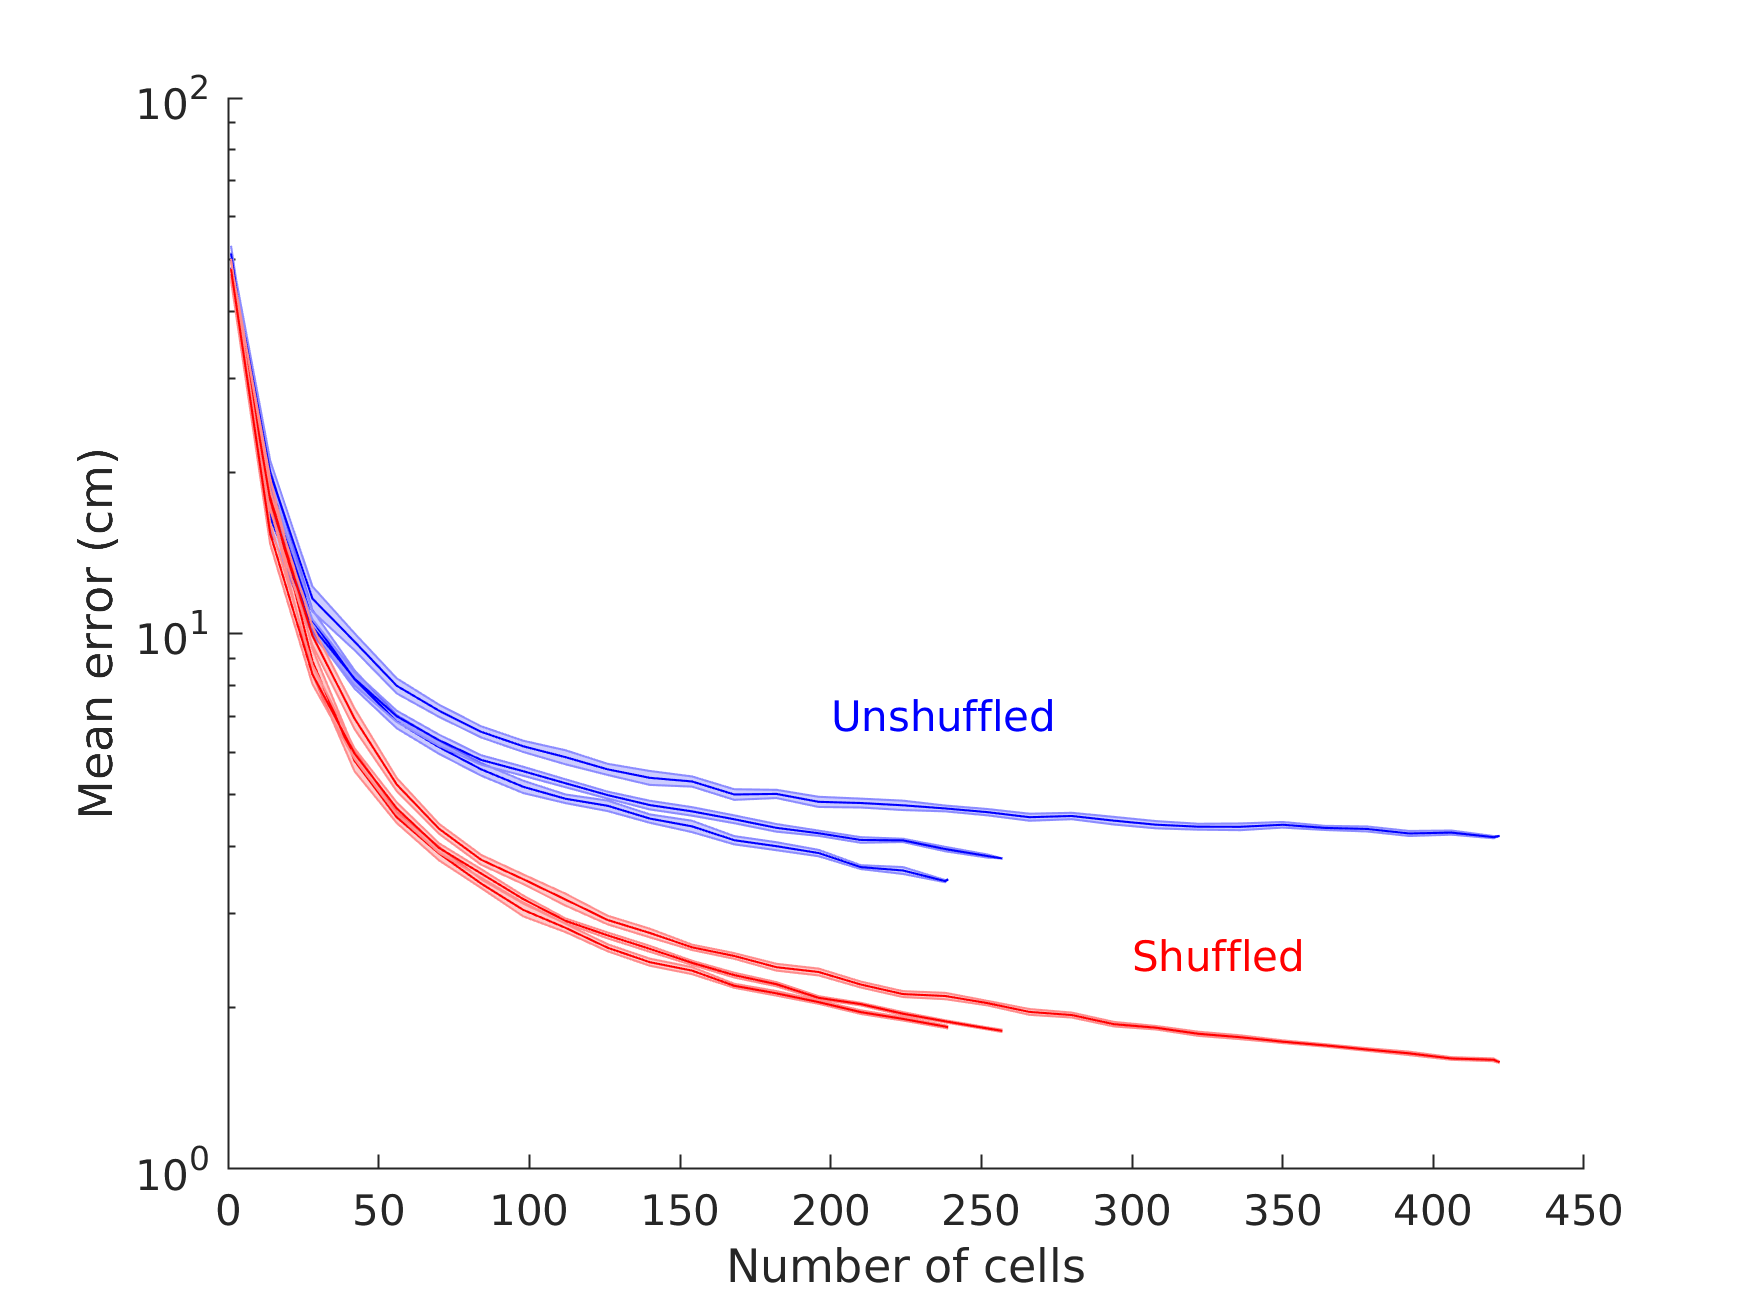
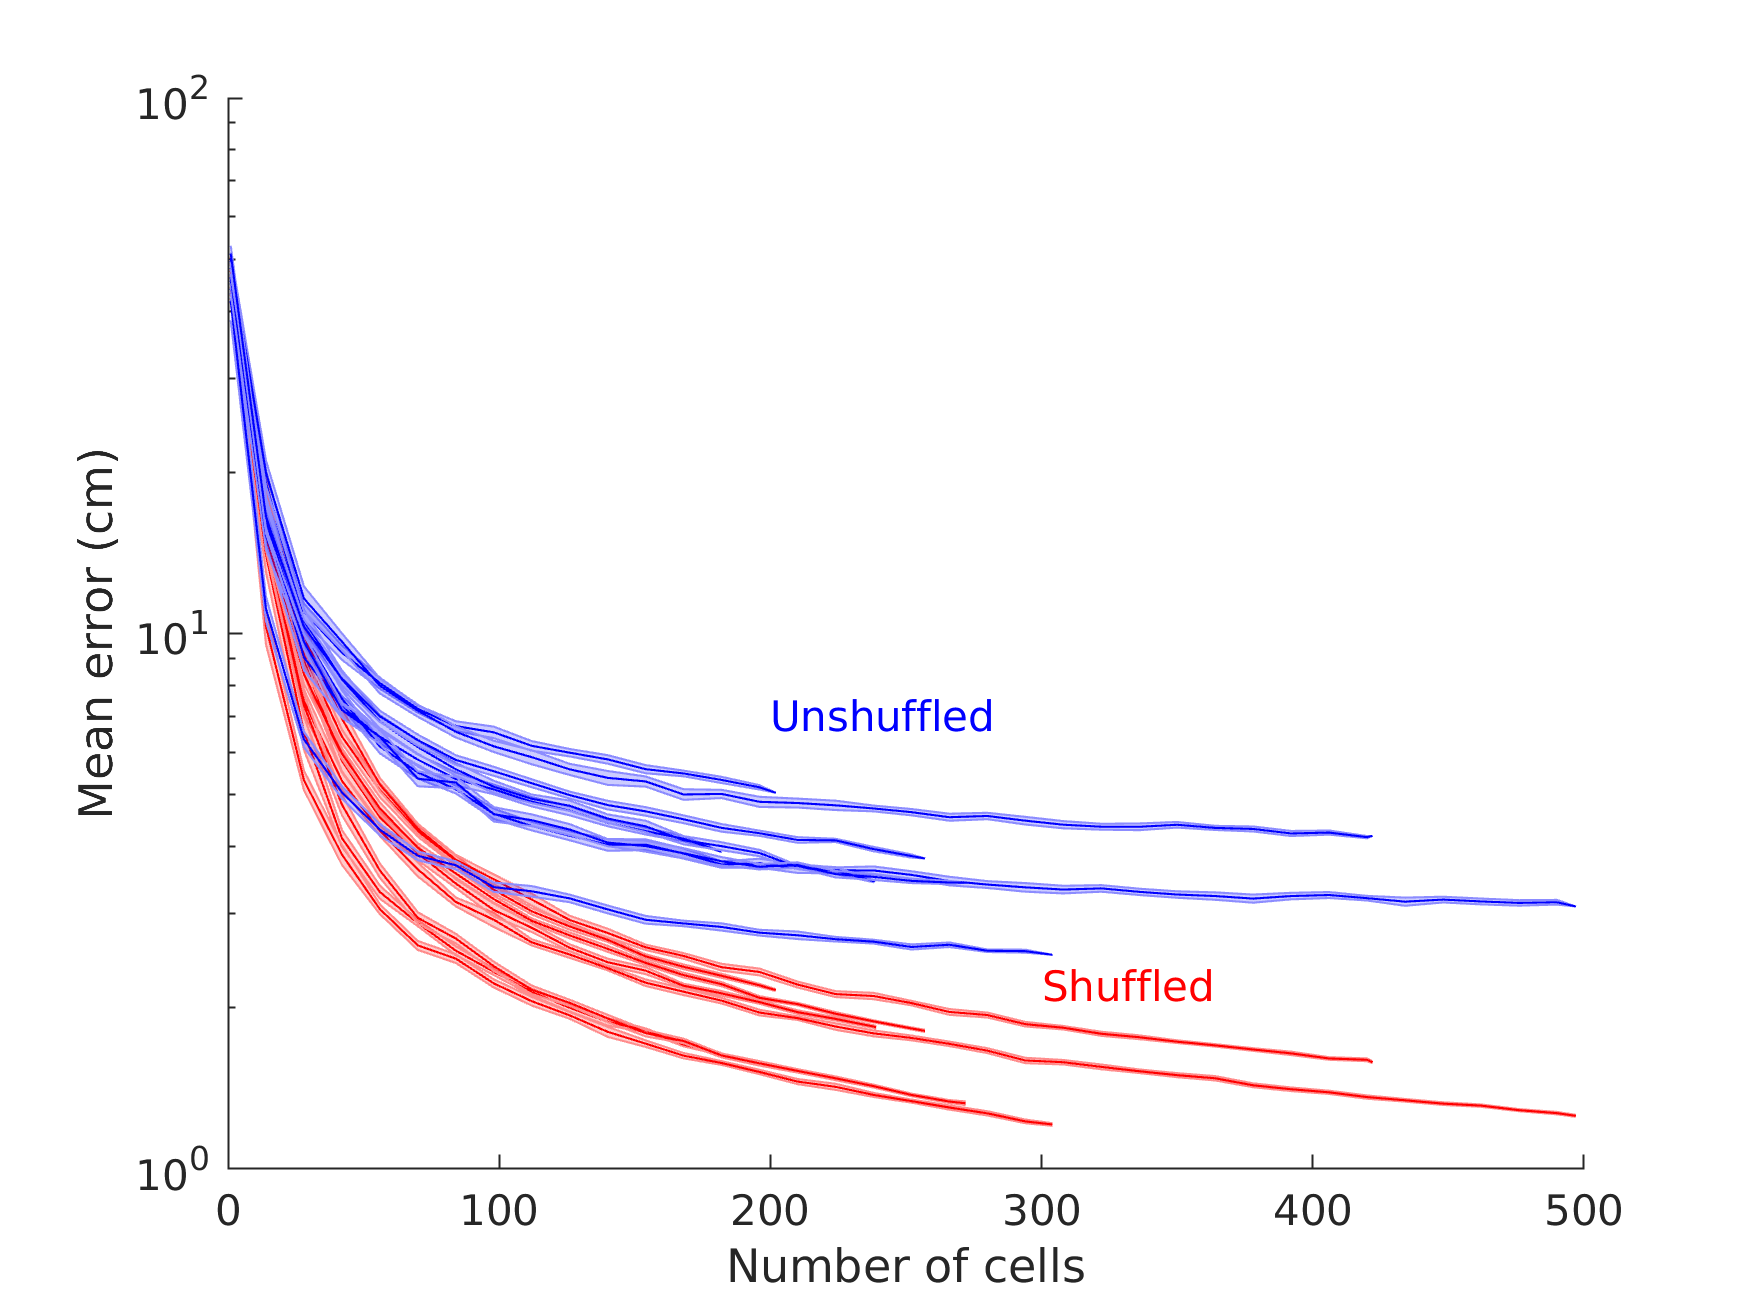
fixed colormap

diff --git a/Analyzer.m b/Analyzer.m
@@ -380,41 +380,157 @@ classdef Analyzer < handle
             ylim([0.5 1]);
         end
         
-        function [fw, bw] = angle_analysis(o)
+        function [bin_X, mean_bin_X, cov_bin_X, fw_princ, bw_princ,...
+                fw_angles, bw_angles, fw_dX, bw_dX, fw_angles_tangent, bw_angles_tangent, varargout] = bin_data(o, is_shuffled, use_pls)
+            activity_source = o.data.X.fast;
+            if is_shuffled
+                activity_source = shuffle(activity_source, o.data.y.ks);
+            end
+            
+            if use_pls
+                [~, ~, activity_source] = plsregress(activity_source, o.data.y.scaled, 2);
+                varargout{1} = activity_source;
+            end
+            
             tot_bins = 2*o.opt.n_bins;
             bin_X = cell(1,tot_bins);
             for b = 1:tot_bins
-                bin_X{b} = o.data.X.fast(o.data.y.ks==b,:);
+                bin_X{b} = activity_source(o.data.y.ks==b,:);
             end
             mean_bin_X = cellfun(@mean, bin_X, 'UniformOutput', false);
             cov_bin_X = cellfun(@cov, bin_X, 'UniformOutput', false);
-            
             mean_bin_X = cell2mat(mean_bin_X.');
             cov_bin_X = cat(3, cov_bin_X{:});
             cov_bin_X = permute(cov_bin_X, [3 1 2]);
             
-            fw.bin_X = bin_X(1:2:end);
-            bw.bin_X = bin_X(2:2:end);
-            fw.dX = diff(mean_bin_X(1:2:end,:));
-            bw.dX = diff(mean_bin_X(2:2:end,:));
+            fw_bin_X = bin_X(1:2:end);
+            bw_bin_X = bin_X(2:2:end);
+            fw_dX = diff(mean_bin_X(1:2:end,:));
+            bw_dX = diff(mean_bin_X(2:2:end,:));
+            
             for b = 1:o.opt.n_bins
-                coeffs = pca(fw.bin_X{b});
-                fw.princ(b,:) = coeffs(:,1);
+                coeffs = pca(fw_bin_X{b});
+                fw_princ(b,:) = coeffs(:,1);
                 
-                coeffs = pca(bw.bin_X{b});
-                bw.princ(b,:) = coeffs(:,1);
+                coeffs = pca(bw_bin_X{b});
+                bw_princ(b,:) = coeffs(:,1);
             end
             for b = 1:o.opt.n_bins-1
-                fw.angles(b) = angle_v(fw.princ(b,:), fw.dX(b,:));
-                bw.angles(b) = angle_v(bw.princ(b,:), bw.dX(b,:));
+                fw_angles(b) = angle_v(fw_princ(b,:), fw_dX(b,:));
+                bw_angles(b) = angle_v(bw_princ(b,:), bw_dX(b,:));
             end
             
-            figure;
+            for b = 1:o.opt.n_bins-2
+                fw_angles_tangent(b) = angle_v(fw_dX(b,:), fw_dX(b+1,:));
+                bw_angles_tangent(b) = angle_v(bw_dX(b,:), bw_dX(b+1,:));
+            end
+        end
+        
+        function [fw, bw] = angle_analysis(o, printit)
+            if ~exist('printit', 'var')
+                printit = false;
+            end
+            if printit
+                mouse_id = split(o.res.source,'/');
+                mouse_id = mouse_id{end};
+                mouse_id = split(mouse_id, '-');
+                mouse_id = [mouse_id{1} mouse_id{2}];
+            end
+            [~, mean_bin_X, ~, fw.princ, bw.princ, fw.angles, bw.angles, fw.dX, bw.dX, fw.angles_tangent, bw.angles_tangent] ...
+                = o.bin_data(false, false);
+            [~, ~, ~, fw.princ_shuf, bw.princ_shuf, fw.angles_shuf, bw.angles_shuf, ~, ~] = ...
+                o.bin_data(true, false);
+            [~, mean_bin_X_pls, cov_bin_X_pls, ~, ~, ~, ~, ~, ~, ~, ~, X_pls] ...
+                = o.bin_data(false, true);
+            [~, ~, cov_bin_X_pls_shuf, ~, ~, ~, ~, ~, ~, ~, ~, X_pls_shuf] = ...
+                o.bin_data(true, true);
+            
+            colors = parula(1000)*0.8;
+             
+            figure('Position', [0 0 800 600]);
+            
+            subplot(2,2,1);
             hold on;
-            plot(fw.angles, '-o');
-            plot(bw.angles, '-o');
-            legend fw bw
-            %fw.dX = dX_fw; fw.princ = princ_fw; fw.angles = angles_fw;
+            scatter(X_pls(:,1), X_pls(:,2), 1, o.data.y.scaled);
+            scatter(mean_bin_X_pls(:,1), mean_bin_X_pls(:,2), 10, [1 0 0]);
+            xlim_ = xlim; ylim_ = ylim;
+            xlim(xlim_); ylim(ylim_);
+            xlabel PLS1
+            ylabel PLS2
+            title(['Linear track activity, ' num2str(o.opt.n_bins) ' bins']);
+            
+            subplot(2,2,2);
+            hold on;
+            for b = 1:o.opt.n_bins
+                plot_cov(mean_bin_X_pls(2*b-1,:), cov_bin_X_pls(2*b-1,:,:),...
+                    colors(round(1000*b/o.opt.n_bins),:));
+                plot_cov(mean_bin_X_pls(2*b,:), cov_bin_X_pls(2*b,:,:),...
+                    colors(round(1000*b/o.opt.n_bins),:));
+            end
+            xlim(xlim_); ylim(ylim_);
+            xlabel PLS1
+            ylabel PLS2
+            title(['Visualized covariances, ' num2str(o.opt.n_bins) ' bins']);
+
+            subplot(2,2,3);
+            hold on;
+            scatter(X_pls_shuf(:,1), X_pls_shuf(:,2), 1, o.data.y.scaled);
+            scatter(mean_bin_X_pls(:,1), mean_bin_X_pls(:,2), 10, [1 0 0]);
+            xlim(xlim_); ylim(ylim_);
+            xlabel PLS1
+            ylabel PLS2
+            title(['Linear track activity, ' num2str(o.opt.n_bins) ' bins - shuffled']);
+            colormap parula
+            
+            subplot(2,2,4);
+            hold on;
+            for b = 1:o.opt.n_bins
+                plot_cov(mean_bin_X_pls(2*b-1,:), cov_bin_X_pls_shuf(2*b-1,:,:),...
+                    colors(round(1000*b/o.opt.n_bins),:));
+                plot_cov(mean_bin_X_pls(2*b,:), cov_bin_X_pls_shuf(2*b,:,:),...
+                    colors(round(1000*b/o.opt.n_bins),:));
+            end
+            xlim(xlim_); ylim(ylim_);
+            xlabel PLS1
+            ylabel PLS2
+            title(['Visualized covariances, ' num2str(o.opt.n_bins) ' bins - shuffled']);
+            
+            if printit
+                if ~exist(['graphs2/analyzer_figs/large/' mouse_id], 'dir')
+                    mkdir(['graphs2/analyzer_figs/large/' mouse_id]);
+                end
+                print('-dpng', ['graphs2/analyzer_figs/large/' mouse_id '/PLS_vis.png']);
+            end
+            
+            figure('Position', [0 0 800 500]);
+            
+            subplot(2,1,1);
+            hold on;
+            mean_angle = mean([fw.angles bw.angles]);
+            mean_angle_shuf = mean([fw.angles_shuf bw.angles_shuf]);
+            xlim([0 135]);
+            histogram([fw.angles bw.angles], 10);
+            histogram([fw.angles_shuf bw.angles_shuf], 10);
+            line([mean_angle mean_angle], ylim, 'Color', 'blue', 'LineWidth', 2);
+            line([mean_angle_shuf mean_angle_shuf], ylim, 'Color', 'red', 'LineWidth', 2);
+            line([90 90], ylim, 'Color', 'black', 'LineStyle', '--', 'LineWidth', 2);
+            legend 'Unshuffled' 'Shuffled' 'Mean angle (Unshuffled)' 'Mean angle (Shuffled)' Orthogonal Location northwest
+            xlabel 'Angle (degrees)'
+            ylabel Frequency
+            title 'Angle between principal noise direction and tuning curve tangent'
+            
+            subplot(2,1,2);
+            hold on;
+            histogram([fw.angles_tangent bw.angles_tangent], 10, 'FaceColor', 'y');
+            xlim([0 135]);
+            xlabel 'Angle (degrees)'
+            ylabel Frequency
+            title 'Angle between consecutive tangent vectors'
+            
+            if printit
+                print('-dpng', ['graphs2/analyzer_figs/large/' mouse_id '/noise_angles.png']);
+            end
+            
             fw_bindist = mean_bin_X(1:2:end,:) ./ sum(mean_bin_X(1:2:end,:),1);
             bw_bindist = mean_bin_X(2:2:end,:) ./ sum(mean_bin_X(2:2:end,:),1);
             
@@ -423,24 +539,73 @@ classdef Analyzer < handle
             [~, e_fw_ord] = sort(-sum(fw_bindist .* log(fw_bindist)));
             [~, e_bw_ord] = sort(-sum(bw_bindist .* log(bw_bindist)));
             
-            %just doing fw eigvec viz for now
-            figure;
-            subplot(2,1,1);
-            %to_flip = ones(20,1);
-            %to_flip([6 7 8 9 10 12 13 14 15 16 17 18 19]) = -1;
-            %to_flip([6 7 8 10 12 20]) = -1;
-            imagesc(fw.princ(:,fw_ord).^2);
+            figure('Position', [0 0 1500 1000]);
+            
+            subplot(4,2,1);
+            imagesc(mean_bin_X(1:2:end, fw_ord));
             xlabel 'Neuron (ordered by position)'
             ylabel 'Position bin'
-            title 'Principal noise eigenvectors by bin (squared components)'
+            title 'Mean neural activity - forward motion'
             colorbar
             
-            subplot(2,1,2);
-            imagesc(fw.dX(:, fw_ord));
+            subplot(4,2,2);
+            imagesc(mean_bin_X(2:2:end, bw_ord));
+            xlabel 'Neuron (ordered by position)'
+            ylabel 'Position bin'
+            title 'Mean neural activity - backward motion'
+            colorbar
+            
+            subplot(4,2,3);
+            imagesc(abs(fw.princ(:,fw_ord)));
+            assert(all((sum(fw.princ(:,fw_ord).^2,2) - 1).^2 < eps), 'eigenvectors not normalized');
+            xlabel 'Neuron (ordered by position)'
+            ylabel 'Position bin'
+            title 'Abs. principal noise eigenvectors - forward motion'
+            colorbar
+            
+            subplot(4,2,4);
+            imagesc(abs(bw.princ(:,bw_ord)));
+            assert(all((sum(bw.princ(:,bw_ord).^2,2) - 1).^2 < eps), 'eigenvectors not normalized');
+            xlabel 'Neuron (ordered by position)'
+            ylabel 'Position bin'
+            title 'Abs. principal noise eigenvectors - backward motion'
+            colorbar
+            
+            subplot(4,2,5);
+            imagesc(abs(fw.princ_shuf(:,fw_ord)));
+            assert(all((sum(fw.princ_shuf(:,fw_ord).^2,2) - 1).^2 < eps), 'eigenvectors not normalized');
+            xlabel 'Neuron (ordered by position)'
+            ylabel 'Position bin'
+            title 'Abs. principal noise eigenvectors - forward motion, shuffled'
+            colorbar
+            
+            subplot(4,2,6);
+            imagesc(abs(bw.princ_shuf(:,bw_ord)));
+            assert(all((sum(bw.princ_shuf(:,bw_ord).^2,2) - 1).^2 < eps), 'eigenvectors not normalized');
+            xlabel 'Neuron (ordered by position)'
+            ylabel 'Position bin'
+            title 'Abs. principal noise eigenvectors - backward motion, shuffled'
+            colorbar
+            
+            subplot(4,2,7);
+            imagesc(abs(fw.dX(:, fw_ord)));
             xlabel 'Neuron (ordered by position)'
             ylabel 'Earlier bin in diff.'
-            title 'Mean activity diff. between bins'
+            title 'Abs. mean activity diff. between bins - forward motion'
             colorbar
+            
+            subplot(4,2,8);
+            imagesc(abs(bw.dX(:, bw_ord)));
+            xlabel 'Neuron (ordered by position)'
+            ylabel 'Earlier bin in diff.'
+            title 'Abs. mean activity diff. between bins - backward motion'
+            colorbar
+            c_ = load('/home/omer/ML-project/plotting/my_colormap_eigen.mat');
+            colormap(c_.c);
+            
+            if printit
+                print('-dpng', ['graphs2/analyzer_figs/large/' mouse_id '/noise_eigenvector.png']);
+            end
         end
         
         function ord = neuron_pos_order(o, direc)
@@ -497,19 +662,19 @@ classdef Analyzer < handle
             figure;
             hold on;
             for i = 1:n
-                [m,e] = anas{i}.get_err('mean_err', 'unshuf');
-                shadedErrorBar(anas{i}.data.neuron_nums, m, e.*norminv(0.95), 'lineprops', 'b');
-            end
-            for i = 1:n
                 [m,e] = anas{i}.get_err('mean_err', 'shuf');
                 shadedErrorBar(anas{i}.data.neuron_nums, m, e.*norminv(0.95), 'lineprops', 'r');
+            end
+            for i = 1:n
+                [m,e] = anas{i}.get_err('mean_err', 'unshuf');
+                shadedErrorBar(anas{i}.data.neuron_nums, m, e.*norminv(0.95), 'lineprops', 'b');
             end
             set(gca, 'YScale', 'log');
             xlabel 'Number of cells'
             ylabel 'Mean error (cm)'
-            xlim([0 450]);
+            xlim([0 500]);
             text(200, 7, 'Unshuffled', 'Color', 'blue');
-            text(300, 2.5, 'Shuffled', 'Color', 'red');
+            text(300, 2.2, 'Shuffled', 'Color', 'red');
             if printit
                 large_printer('graphs2/analyzer_figs/large/mean_errs_logscale');
                 figure_format
@@ -520,16 +685,16 @@ classdef Analyzer < handle
             figure;
             hold on;
             for i = 1:n
-                [m,e] = anas{i}.get_err('imse', 'unshuf');
-                shadedErrorBar(anas{i}.data.neuron_nums, m, e.*norminv(0.95), 'lineprops', 'b');
-            end
-            for i = 1:n
                 [m,e] = anas{i}.get_err('imse', 'shuf');
                 shadedErrorBar(anas{i}.data.neuron_nums, m, e.*norminv(0.95), 'lineprops', 'r');
             end
+            for i = 1:n
+                [m,e] = anas{i}.get_err('imse', 'unshuf');
+                shadedErrorBar(anas{i}.data.neuron_nums, m, e.*norminv(0.95), 'lineprops', 'b');
+            end
             xlabel 'Number of cells'
             ylabel '1/MSE (cm^{-2})'
-            xlim([0 450]);
+            xlim([0 500]);
             text(200, 0.03, 'Unshuffled', 'Color', 'blue');
             text(100, 0.09, 'Shuffled', 'Color', 'red');
             if printit

diff --git a/plotting/plot_cov.m b/plotting/plot_cov.m
@@ -1,0 +1,11 @@
+function plot_cov(m, S, varargin)
+S = squeeze(S);
+
+[vec, val] = eig(S);
+[val, ord] = sort(diag(val));
+vec = vec(:,ord);
+angle = acos(vec(1,end));
+ra = sqrt(val(end));
+rb = sqrt(val(1));
+ellipse(ra,rb,angle,m(1),m(end), varargin{:});
+end
